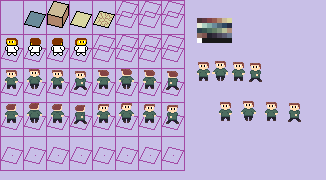
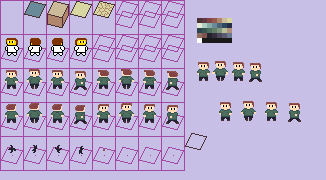
grappling hook

diff --git a/script/Entities.js b/script/Entities.js
@@ -17,10 +17,16 @@ ld49.entities.Player = class extends Entity {
         this.moveLeft = 0;
         this.frame = 0;
         this.dir = 0;
+        this.chain = null;
+        this.pull = null;
     }
 
     input(game, key) {
-        if (this.moveLeft > 0) {
+        if (this.moveLeft > 0 || this.chain !== null || this.pull !== null) {
+            return;
+        }
+        if (key === 'space') {
+            this.shootChain();
             return;
         }
         let dx = 0, dy = 0, dir = 0;
@@ -29,26 +35,91 @@ ld49.entities.Player = class extends Entity {
         else if (key == 'a' || key == 'left') { dx = -1; dir = 1; }
         else if (key == 'd' || key == 'right') { dx = 1; dir = 3; }
         else { return; }
-        let x = this.x + dx;
-        let y = this.y + dy;
-        if (x < 0 || y < 0 || x >= game.width || y >= game.height) {
-            return;
-        }
-        let tile = game.tiles[y][x];
+        const destX = this.x + dx;
+        const destY = this.y + dy;
+        const tile = game.getTile(destX, destY);
         this.dir = dir;
         if (!tile.canWalk) {
             // game.app.sound.play('shoot');
             return;
         }
         game.tiles[this.y][this.x].walked(game);
-        this.moveX = this.x - x;
-        this.moveY = this.y - y;
+        this.moveX = this.x - destX;
+        this.moveY = this.y - destY;
         this.moveLeft = 1;
-        this.x = x;
-        this.y = y;
+        this.x = destX;
+        this.y = destY;
+    }
+
+    shootChain() {
+        let dx, dy;
+        switch (this.dir) {
+            case 0: dx = 0; dy = -1; break;
+            case 1: dx = -1; dy = 0; break;
+            case 2: dx = 0; dy = 1; break;
+            case 3: dx = 1; dy = 0; break;
+        }
+        this.chain = {
+            dx,
+            dy,
+            steps: 2,
+            stepProgress: 0,
+        };
     }
 
     update(game, dt) {
+        if (this.pull !== null) {
+            if (this.pull.tighten >= 0) {
+                this.pull.tighten -= dt * 10;
+            }
+            if (this.pull.tighten <= 0) {
+                this.pull.tighten = 0;
+                this.pull.stepProgress += dt * 120;
+                while (this.pull !== null && this.pull.stepProgress >= 1) {
+                    this.pull.stepProgress -= 1;
+                    this.pull.stepsDone += 1;
+                    if (this.pull.stepsDone >= this.pull.steps) {
+                        this.x = this.pull.destX;
+                        this.y = this.pull.destY;
+                        this.pull = null;
+                    }
+                }
+            }
+        } else if (this.chain !== null) {
+            this.chain.stepProgress += dt * 100;
+            while (this.chain !== null && this.chain.stepProgress >= 1) {
+                this.chain.stepProgress -= 1;
+                this.chain.steps += 1;
+                const x = Math.round(this.x + this.chain.dx * this.chain.steps / 8);
+                const y = Math.round(this.y + this.chain.dy * this.chain.steps / 8);
+                const tile = game.getTile(x, y);
+                if (tile.canGrapple) {
+                    const destX = x - this.chain.dx;
+                    const destY = y - this.chain.dy;
+                    const destTile = game.getTile(destX, destY);
+                    if (destTile.canWalk) {
+                        this.pull = {
+                            destX: destX,
+                            destY: destY,
+                            dx: this.chain.dx,
+                            dy: this.chain.dy,
+                            steps: this.chain.steps,
+                            stepsDone: 0,
+                            stepProgress: 0,
+                            tighten: 1,
+                            tiles: Math.abs(destX - this.x) + Math.abs(destY - this.y),
+                        };
+                        // TODO: cling sound for successful grapple
+                    } else {
+                        // TODO: chain fail sound
+                    }
+                    this.chain = null;
+                } else if (!tile.canFly) {
+                    this.chain = null;
+                    // TODO: chain fail sound
+                }
+            }
+        }
         if (this.moveLeft > 0) {
             this.moveLeft -= dt * 4;
             this.frame += dt * 8;
@@ -60,7 +131,33 @@ ld49.entities.Player = class extends Entity {
     }
 
     draw(renderer) {
-        const frame = Math.round(this.frame) % 4;
-        renderer.draw(16 + + this.dir * 4 + frame, this.x + this.moveX * this.moveLeft, this.y + this.moveY * this.moveLeft);
+        if (this.pull !== null) {
+            for (let i = this.pull.stepsDone + 1; i <= this.pull.steps; i++) {
+                const v = Math.sin((i - this.pull.steps) * 0.5);
+                const mul = this.pull.tighten * 0.1;
+                const x = this.x + this.pull.dx * i / 8 + this.pull.dy * v * mul;
+                const y = this.y + this.pull.dy * i / 8 + this.pull.dx * v * mul;
+                const icon = i === this.pull.steps
+                    ? 32 + this.dir
+                    : 36;
+                renderer.draw(icon, x, y, 0);
+            }
+            const delta = this.pull.stepsDone / this.pull.steps * this.pull.tiles;
+            renderer.draw(16 + this.dir * 4, this.x + this.pull.dx * delta, this.y + this.pull.dy * delta);
+        } else if (this.chain !== null) {
+            for (let i = 1; i <= this.chain.steps; i++) {
+                const v = Math.sin((i - this.chain.steps) * 0.5);
+                const x = this.x + this.chain.dx * i / 8 + this.chain.dy * v * 0.1;
+                const y = this.y + this.chain.dy * i / 8 + this.chain.dx * v * 0.1;
+                const icon = i === this.chain.steps
+                    ? 32 + this.dir
+                    : 36;
+                renderer.draw(icon, x, y, 0);
+            }
+            renderer.draw(16 + this.dir * 4, this.x, this.y);
+        } else {
+            const frame = Math.round(this.frame) % 4;
+            renderer.draw(16 + this.dir * 4 + frame, this.x + this.moveX * this.moveLeft, this.y + this.moveY * this.moveLeft);
+        }
     }
 }

diff --git a/script/Tiles.js b/script/Tiles.js
@@ -1,11 +1,13 @@
 'use strict';
 
 class Tile {
-    constructor(icon, x, y, canWalk) {
+    constructor(icon, x, y, canWalk, canFly, canGrapple) {
         this.icon = icon;
         this.x = x;
         this.y = y;
         this.canWalk = canWalk;
+        this.canFly = canFly;
+        this.canGrapple = canGrapple;
     }
 
     draw(renderer) {
@@ -19,13 +21,17 @@ class Tile {
 
 ld49.tiles.StableFloor = class extends Tile {
     constructor(x, y) {
-        super(1, x, y, true);
+        super(1, x, y, true, true, false);
+    }
+
+    draw(renderer) {
+        renderer.draw(this.icon, this.x, this.y, -1);
     }
 };
 
 ld49.tiles.UnstableFloor = class extends Tile {
     constructor(icon, x, y, next) {
-        super(icon, x, y, true);
+        super(icon, x, y, true, true, false);
         this.next = next;
         this.bump = 0;
     }
@@ -40,7 +46,7 @@ ld49.tiles.UnstableFloor = class extends Tile {
     draw(renderer) {
         const progress = this.bump * Math.PI;
         const sink = Math.sin(progress) * 0.2;
-        renderer.draw(this.icon, this.x, this.y, -sink);
+        renderer.draw(this.icon, this.x, this.y, -sink - 1);
     }
 
     walked(game) {
@@ -56,7 +62,7 @@ ld49.tiles.UnstableFloor = class extends Tile {
 
 ld49.tiles.FallingFloor = class extends Tile {
     constructor(x, y) {
-        super(4, x, y, false);
+        super(4, x, y, false, true, false);
         this.fall = 0;
     }
 
@@ -69,7 +75,7 @@ ld49.tiles.FallingFloor = class extends Tile {
 
     draw(renderer) {
         if (this.fall > 0) {
-            renderer.draw(this.icon, this.x, this.y, 3 * (this.fall - 1));
+            renderer.draw(this.icon, this.x, this.y, 3 * (this.fall - 1) - 1);
         }
     }
 
@@ -93,12 +99,26 @@ ld49.tiles.crackedFloors = [
 
 ld49.tiles.Wall = class extends Tile {
     constructor(x, y) {
-        super(2, x, y, false);
+        super(2, x, y, false, false, true);
+    }
+
+    draw(renderer) {
+        renderer.draw(this.icon, this.x, this.y, 0);
     }
 };
 
 ld49.tiles.Void = class extends Tile {
     constructor(x, y) {
-        super(0, x, y, false);
+        super(0, x, y, false, true, false);
     }
+
+    draw(renderer) {}
+};
+
+ld49.tiles.OutsideVoid = class extends Tile {
+    constructor(x, y) {
+        super(0, x, y, false, false, false);
+    }
+
+    draw(renderer) {}
 };

diff --git a/script/Renderer.js b/script/Renderer.js
@@ -4,20 +4,35 @@ ld49.util.Renderer = class {
     constructor(buffer, tiles) {
         this.buffer = buffer;
         this.tiles = tiles;
+        this.drawings = [];
     }
 
     draw(icon, x, y, z) {
         z = z ?? 0;
-        const row = Math.floor(icon / 8);
-        const col = icon % 8;
-        const srcX = col * 23 + 1;
-        const srcY = row * 34 + 1;
-        const destX = 10 + Math.round(x * 15 + y * 6);
-        const destY = 100 + Math.round(x * 3 - y * 13 - z * 10);
-        this.buffer.drawImage(
-            this.tiles,
-            srcX, srcY, 22, 33,
-            destX, destY, 22, 33
-        );
+        const depth = y - x - z;
+        this.drawings.push({
+            icon,
+            x,
+            y,
+            z,
+            depth,
+        })
+    }
+
+    finishDrawing() {
+        this.drawings.sort((a, b) => b.depth - a.depth);
+        for (const drawing of this.drawings) {
+            const row = Math.floor(drawing.icon / 8);
+            const col = drawing.icon % 8;
+            const srcX = col * 23 + 1;
+            const srcY = row * 34 + 1;
+            const destX = 10 + Math.round(drawing.x * 15 + drawing.y * 6);
+            const destY = 100 + Math.round(drawing.x * 3 - drawing.y * 13 - drawing.z * 10);
+            this.buffer.drawImage(
+                this.tiles,
+                srcX, srcY, 22, 33,
+                destX, destY, 22, 33
+            );
+        }
     }
 }

diff --git a/script/Game.js b/script/Game.js
@@ -34,6 +34,7 @@ ld49.states.Game = class extends State {
     }
 
     keydown(data) {
+        console.log(data.key);
         switch (data.key) {
             case 'w':
             case 'up':
@@ -51,6 +52,11 @@ ld49.states.Game = class extends State {
             case 'right':
                 this.pressedKeys.right = true;
                 break;
+        }
+        if (data.key === 'space') {
+            for (const entity of this.entities) {
+                entity.input(this, 'space');
+            }
         }
     }
 
@@ -113,6 +119,13 @@ ld49.states.Game = class extends State {
         }
     }
 
+    getTile(x, y) {
+        if (x < 0 || y < 0 || x >= this.width || y >= this.height) {
+            return new ld39.tiles.OutsideVoid(x, y);
+        }
+        return this.tiles[y][x];
+    }
+
     render() {
         this.buffer
             .fillStyle('#000')
@@ -129,6 +142,7 @@ ld49.states.Game = class extends State {
         // for (let i = 0; i < this.entities.length; i++) {
         //     this.entities[i].draw(this.buffer, this);
         // }
+        renderer.finishDrawing();
         this.app.layer.drawImage(this.buffer.canvas, 0, 0, ld49.screenWidth, ld49.screenHeight);
     }
 };
